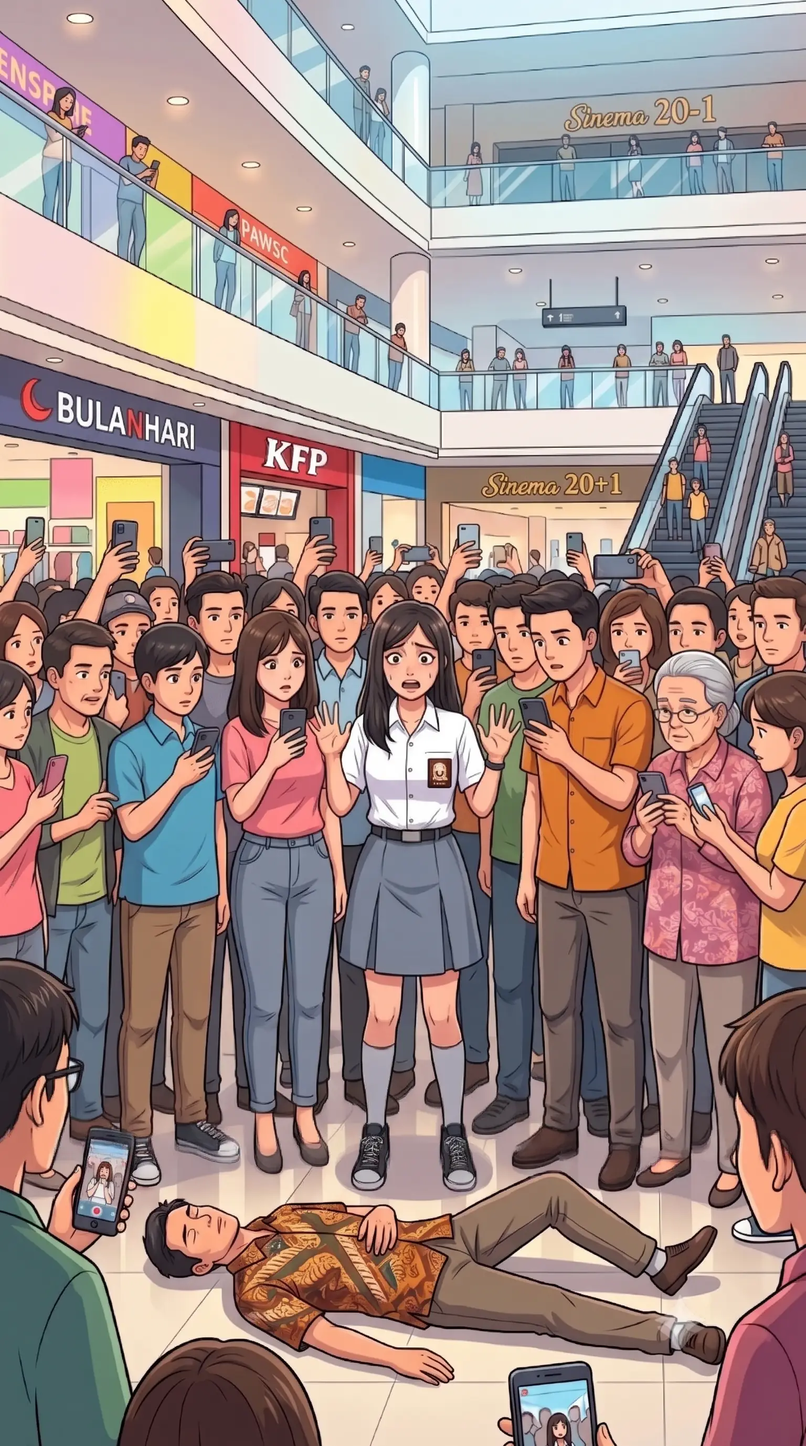
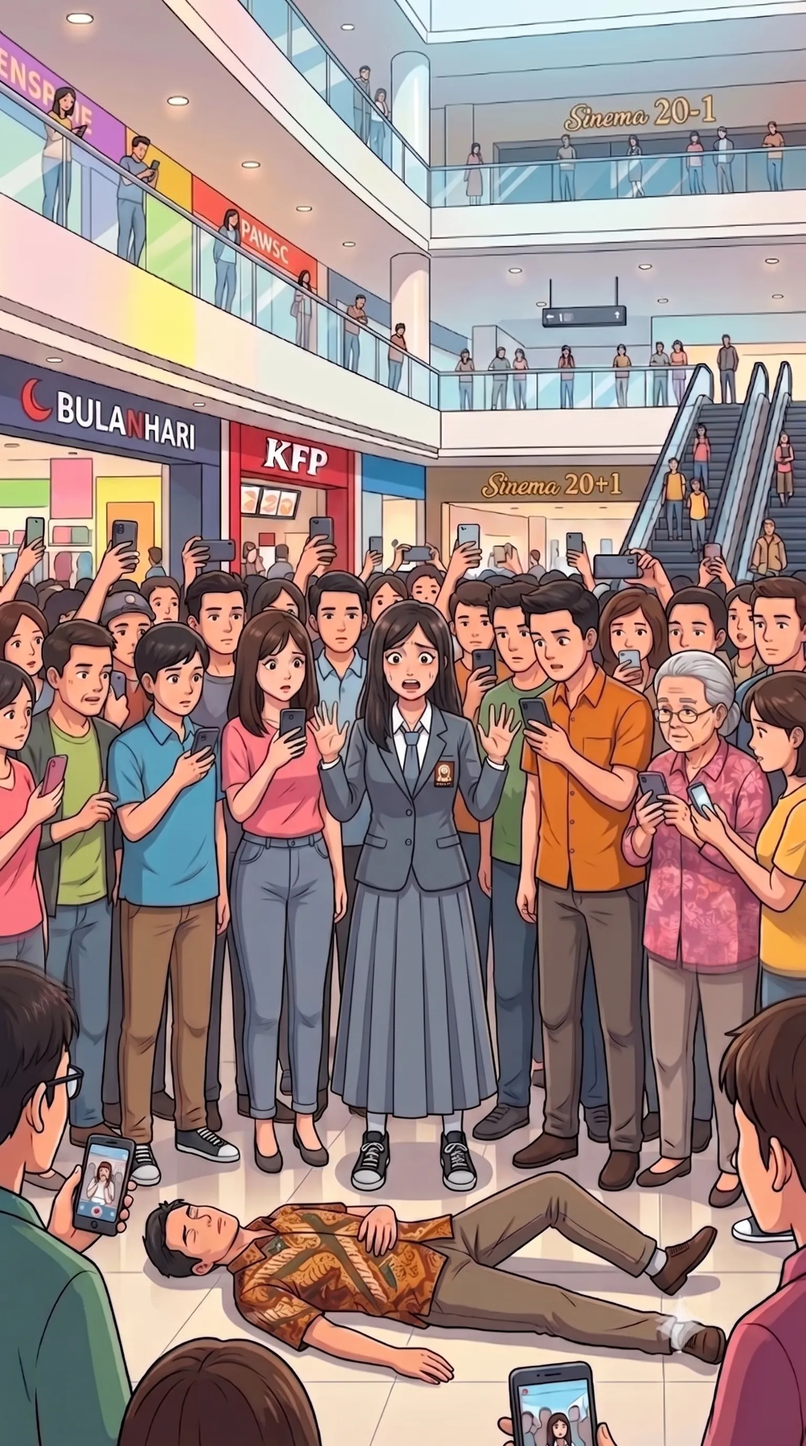
feat: implement asset preloading screen and add procedural typing sound effects

diff --git a/src/App.svelte b/src/App.svelte
@@ -1,4 +1,5 @@
 <script>
+  import { onMount } from 'svelte';
   import { gameData } from './lib/gameData.js';
   import TopBar from './lib/components/TopBar.svelte';
   import Sidebar from './lib/components/Sidebar.svelte';
@@ -13,8 +14,39 @@
   let gameStarted = false;
   let currentStageIndex = 0;
   let score = 100;
+  /** @type {any} */
   let selectedOption = null;
   let narrativeRead = false;
+  
+  let isPreloading = true;
+  let preloadProgress = 0;
+
+  const imageModules = import.meta.glob('./assets/*.{webp,png,svg}', { eager: true });
+  const allImages = Object.values(imageModules).map(module => module.default || module);
+
+  onMount(() => {
+    let loadedCount = 0;
+    const totalImages = allImages.length;
+    
+    if (totalImages === 0) {
+      isPreloading = false;
+      return;
+    }
+
+    allImages.forEach(src => {
+      const img = new Image();
+      img.src = src;
+      img.onload = img.onerror = () => {
+        loadedCount++;
+        preloadProgress = Math.round((loadedCount / totalImages) * 100);
+        if (loadedCount === totalImages) {
+          setTimeout(() => {
+            isPreloading = false;
+          }, 500); // slight delay for smooth transition
+        }
+      };
+    });
+  });
   
   $: isGameOver = score <= 0;
   $: hasWon = !isGameOver && currentStageIndex >= gameData.length;
@@ -30,6 +62,7 @@
     gameStarted = true;
   }
 
+  /** @param {CustomEvent} event */
   function handleSelect(event) {
     const option = event.detail;
     selectedOption = option;
@@ -67,7 +100,23 @@
   }
 </script>
 
-<div class="game-wrapper">
+{#if isPreloading}
+  <div class="preload-layer fade-in">
+    <div class="loader-container">
+      <div class="heartbeat-icon">
+        <svg xmlns="http://www.w3.org/2000/svg" viewBox="0 0 24 24" fill="none" stroke="currentColor" stroke-width="2" stroke-linecap="round" stroke-linejoin="round" class="feather feather-heart"><path d="M20.84 4.61a5.5 5.5 0 0 0-7.78 0L12 5.67l-1.06-1.06a5.5 5.5 0 0 0-7.78 7.78l1.06 1.06L12 21.23l7.78-7.78 1.06-1.06a5.5 5.5 0 0 0 0-7.78z"></path></svg>
+      </div>
+      <h2>Pahlawan Bystander</h2>
+      <p class="loading-subtitle">Memuat aset permainan... {preloadProgress}%</p>
+      <div class="progress-wrapper">
+        <div class="progress-bar-bg">
+          <div class="progress-bar-fill" style="width: {preloadProgress}%"></div>
+        </div>
+      </div>
+    </div>
+  </div>
+{:else}
+<div class="game-wrapper fade-in">
   
   {#if showWelcome}
     <div class="ui-layer">
@@ -130,8 +179,114 @@
     </div>
   {/if}
 </div>
+{/if}
 
 <style>
+  .preload-layer {
+    position: fixed;
+    top: 0;
+    left: 0;
+    width: 100vw;
+    height: 100vh;
+    background: linear-gradient(135deg, var(--primary-blue-light) 0%, #d1fae5 100%);
+    display: flex;
+    justify-content: center;
+    align-items: center;
+    z-index: 9999;
+  }
+
+  .loader-container {
+    background: var(--glass-bg);
+    padding: 3rem 2.5rem;
+    border-radius: var(--border-radius);
+    border: 4px solid white;
+    box-shadow: var(--shadow-bubbly);
+    text-align: center;
+    max-width: 420px;
+    width: 90%;
+    backdrop-filter: blur(10px);
+    display: flex;
+    flex-direction: column;
+    align-items: center;
+    animation: float 4s ease-in-out infinite;
+  }
+
+  .heartbeat-icon {
+    width: 70px;
+    height: 70px;
+    background: white;
+    border-radius: 50%;
+    display: flex;
+    align-items: center;
+    justify-content: center;
+    border: 4px solid var(--danger-color);
+    box-shadow: 0 8px 0 rgba(239, 68, 68, 0.2), 0 15px 20px rgba(0,0,0,0.1);
+    color: var(--danger-color);
+    margin-bottom: 1.5rem;
+    animation: heartbeat 1.2s ease-in-out infinite;
+  }
+
+  .heartbeat-icon svg {
+    width: 35px;
+    height: 35px;
+    fill: var(--danger-color);
+  }
+
+  .loader-container h2 {
+    color: var(--primary-blue-dark);
+    margin-bottom: 0.5rem;
+    font-size: 1.8rem;
+    font-weight: 800;
+  }
+
+  .loading-subtitle {
+    color: var(--text-secondary);
+    margin-bottom: 2rem;
+    font-weight: 600;
+    font-size: 1.1rem;
+  }
+
+  .progress-wrapper {
+    width: 100%;
+    padding: 4px;
+    background: white;
+    border-radius: 20px;
+    box-shadow: inset 0 2px 4px rgba(0,0,0,0.1);
+    border: 2px solid var(--primary-blue-light);
+  }
+
+  .progress-bar-bg {
+    width: 100%;
+    height: 16px;
+    background: transparent;
+    border-radius: 12px;
+    overflow: hidden;
+    position: relative;
+  }
+
+  .progress-bar-fill {
+    height: 100%;
+    background: linear-gradient(90deg, var(--primary-blue), #60a5fa);
+    border-radius: 12px;
+    transition: width 0.3s cubic-bezier(0.4, 0, 0.2, 1);
+    box-shadow: inset 0 -4px 0 rgba(0,0,0,0.15);
+  }
+
+  @keyframes heartbeat {
+    0% { transform: scale(1); }
+    15% { transform: scale(1.15); }
+    30% { transform: scale(1); }
+    45% { transform: scale(1.15); }
+    60% { transform: scale(1); }
+    100% { transform: scale(1); }
+  }
+
+  @keyframes float {
+    0% { transform: translateY(0px); }
+    50% { transform: translateY(-10px); }
+    100% { transform: translateY(0px); }
+  }
+
   .game-wrapper {
     position: relative;
     width: 100vw;

diff --git a/src/lib/soundEffects.js b/src/lib/soundEffects.js
@@ -90,3 +90,36 @@ export function playNarrativeSound() {
 export function playTickSound() {
   playTone(880.00, 'square', 0, 0.05, 0.02); // High short tick (A5)
 }
+
+export function playTypingSound() {
+  const ctx = getAudioContext();
+  
+  // Create a very short buffer of white noise (50ms)
+  const bufferSize = ctx.sampleRate * 0.05; 
+  const buffer = ctx.createBuffer(1, bufferSize, ctx.sampleRate);
+  const data = buffer.getChannelData(0);
+  for (let i = 0; i < bufferSize; i++) {
+    data[i] = Math.random() * 2 - 1;
+  }
+  
+  const noise = ctx.createBufferSource();
+  noise.buffer = buffer;
+  
+  // Use a bandpass filter to shape the noise into a "clack" sound
+  const filter = ctx.createBiquadFilter();
+  filter.type = 'bandpass';
+  // Slightly randomize the frequency so each key sounds a bit different
+  filter.frequency.value = 700 + Math.random() * 300; 
+  filter.Q.value = 1.2;
+  
+  const gainNode = ctx.createGain();
+  // Quick decay for the click
+  gainNode.gain.setValueAtTime(0.4, ctx.currentTime);
+  gainNode.gain.exponentialRampToValueAtTime(0.001, ctx.currentTime + 0.04);
+  
+  noise.connect(filter);
+  filter.connect(gainNode);
+  gainNode.connect(ctx.destination);
+  
+  noise.start(ctx.currentTime);
+}

diff --git a/src/lib/components/IntroScreen.svelte b/src/lib/components/IntroScreen.svelte
@@ -1,6 +1,6 @@
 <script>
   import { onMount, createEventDispatcher } from "svelte";
-  import { playIntroSound } from '../soundEffects.js';
+  import { playIntroSound, playTypingSound } from '../soundEffects.js';
 
   const dispatch = createEventDispatcher();
 
@@ -29,13 +29,19 @@
     showNextButton = false;
     let i = 0;
     typeInterval = setInterval(() => {
-      p1Display += p1Text.charAt(i);
+      let char = p1Text.charAt(i);
+      p1Display += char;
+      
+      if (char !== ' ' && char !== '\n') {
+        playTypingSound();
+      }
+      
       i++;
       if (i >= p1Text.length) {
         clearInterval(typeInterval);
         showNextButton = true;
       }
-    }, 25);
+    }, 60);
   }
 
   function startScene2() {
@@ -62,13 +68,19 @@
     p2Display = "";
     let i = 0;
     typeInterval = setInterval(() => {
-      p2Display += p2Text.charAt(i);
+      let char = p2Text.charAt(i);
+      p2Display += char;
+      
+      if (char !== ' ' && char !== '\n') {
+        playTypingSound();
+      }
+      
       i++;
       if (i >= p2Text.length) {
         clearInterval(typeInterval);
         showStartButton = true;
       }
-    }, 25);
+    }, 60);
   }
 
   function handleNext() {

diff --git a/src/lib/components/NarrativeScreen.svelte b/src/lib/components/NarrativeScreen.svelte
@@ -1,6 +1,6 @@
 <script>
   import { createEventDispatcher, onMount, onDestroy } from 'svelte';
-  import { playNarrativeSound } from '../soundEffects.js';
+  import { playNarrativeSound, playTypingSound } from '../soundEffects.js';
   
   export let title = '';
   export let narrative = '';
@@ -28,7 +28,13 @@
       }
       
       let currentText = paragraphs[pIndex];
-      displayTexts[pIndex] += currentText.charAt(cIndex);
+      let char = currentText.charAt(cIndex);
+      displayTexts[pIndex] += char;
+      
+      if (char !== ' ' && char !== '\n') {
+        playTypingSound();
+      }
+      
       cIndex++;
       
       if (cIndex >= currentText.length) {
@@ -37,7 +43,7 @@
       }
       
       displayTexts = displayTexts;
-    }, 15);
+    }, 60);
   });
   
   onDestroy(() => {
